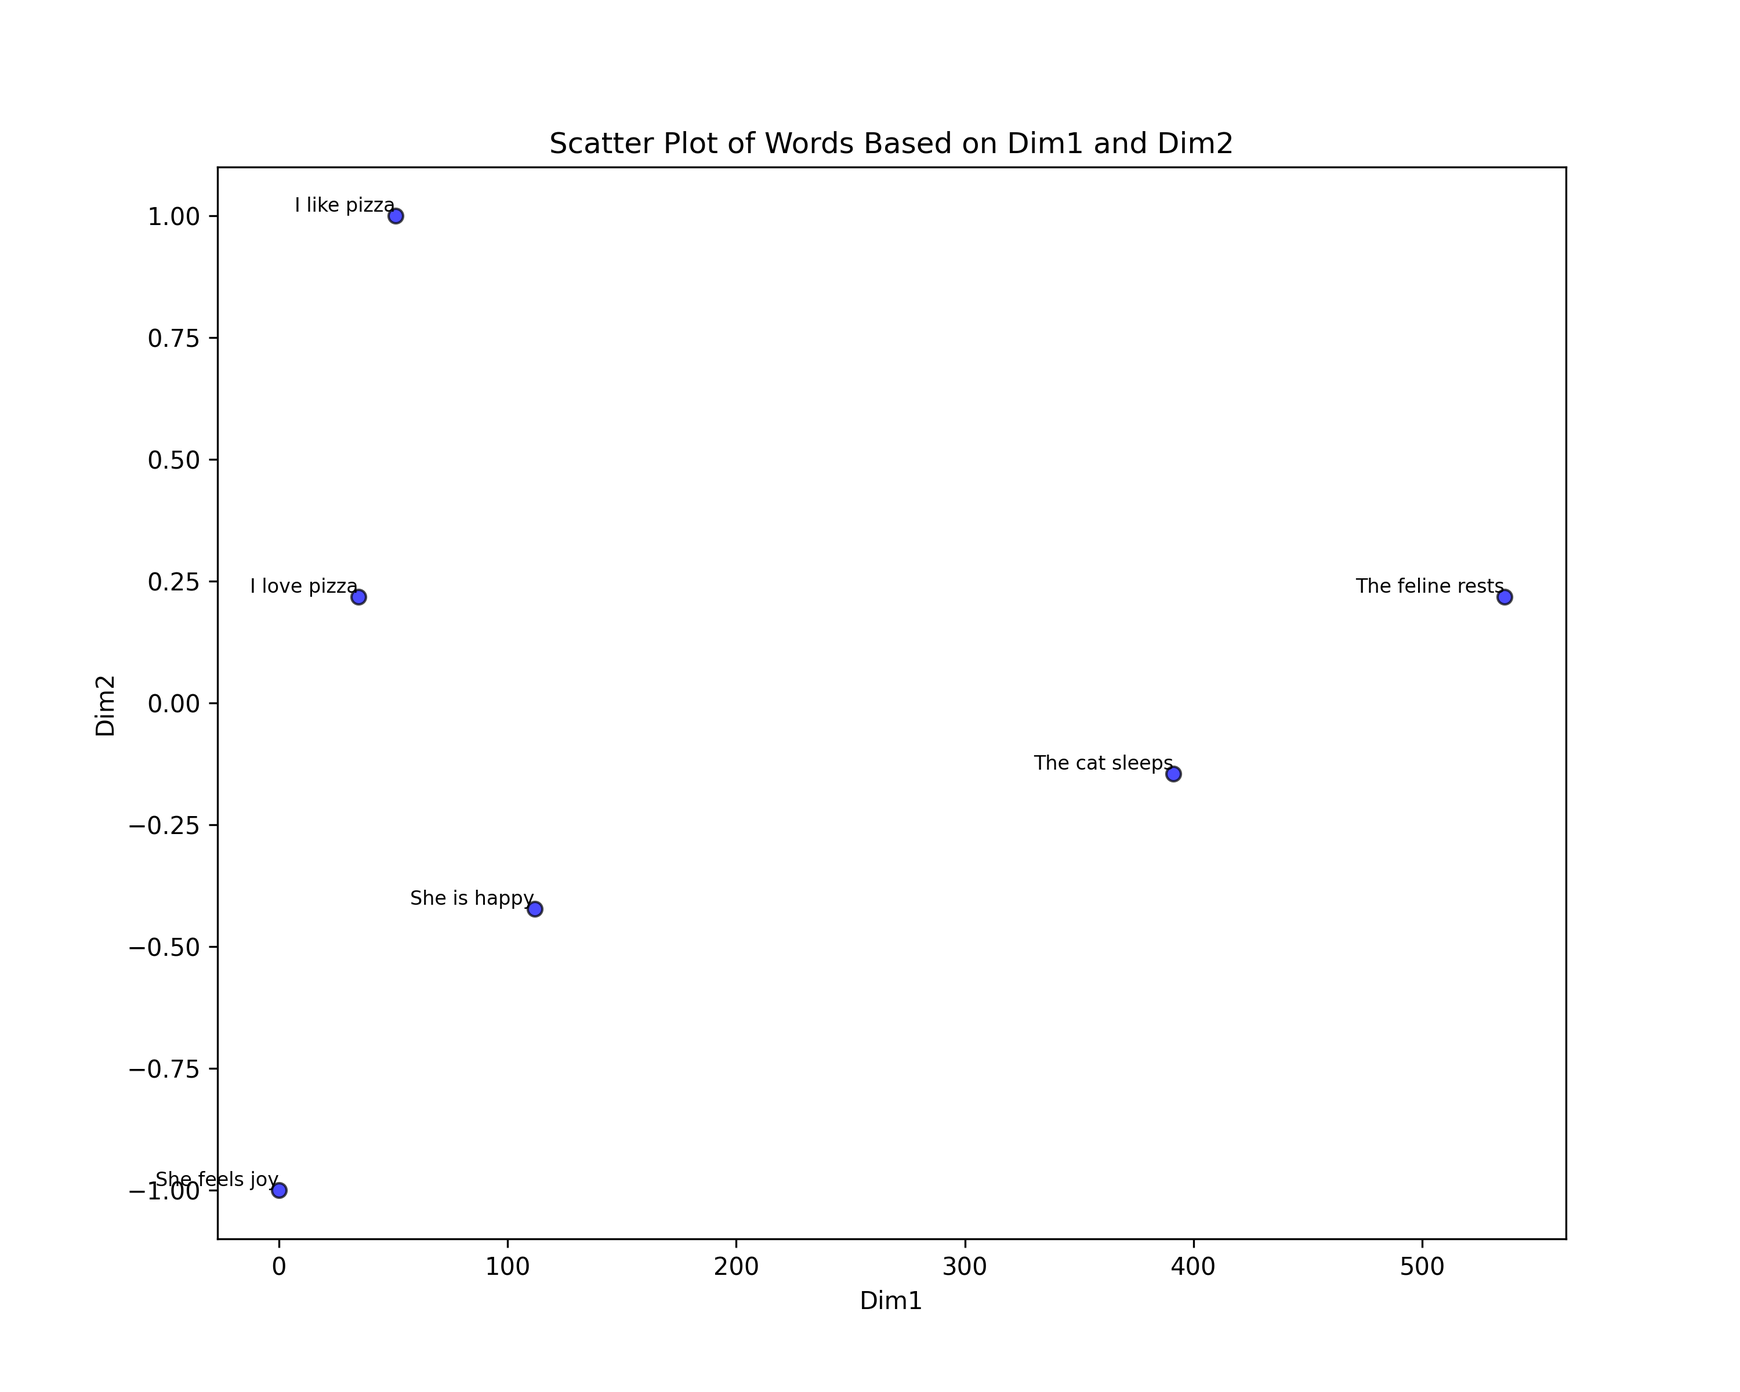
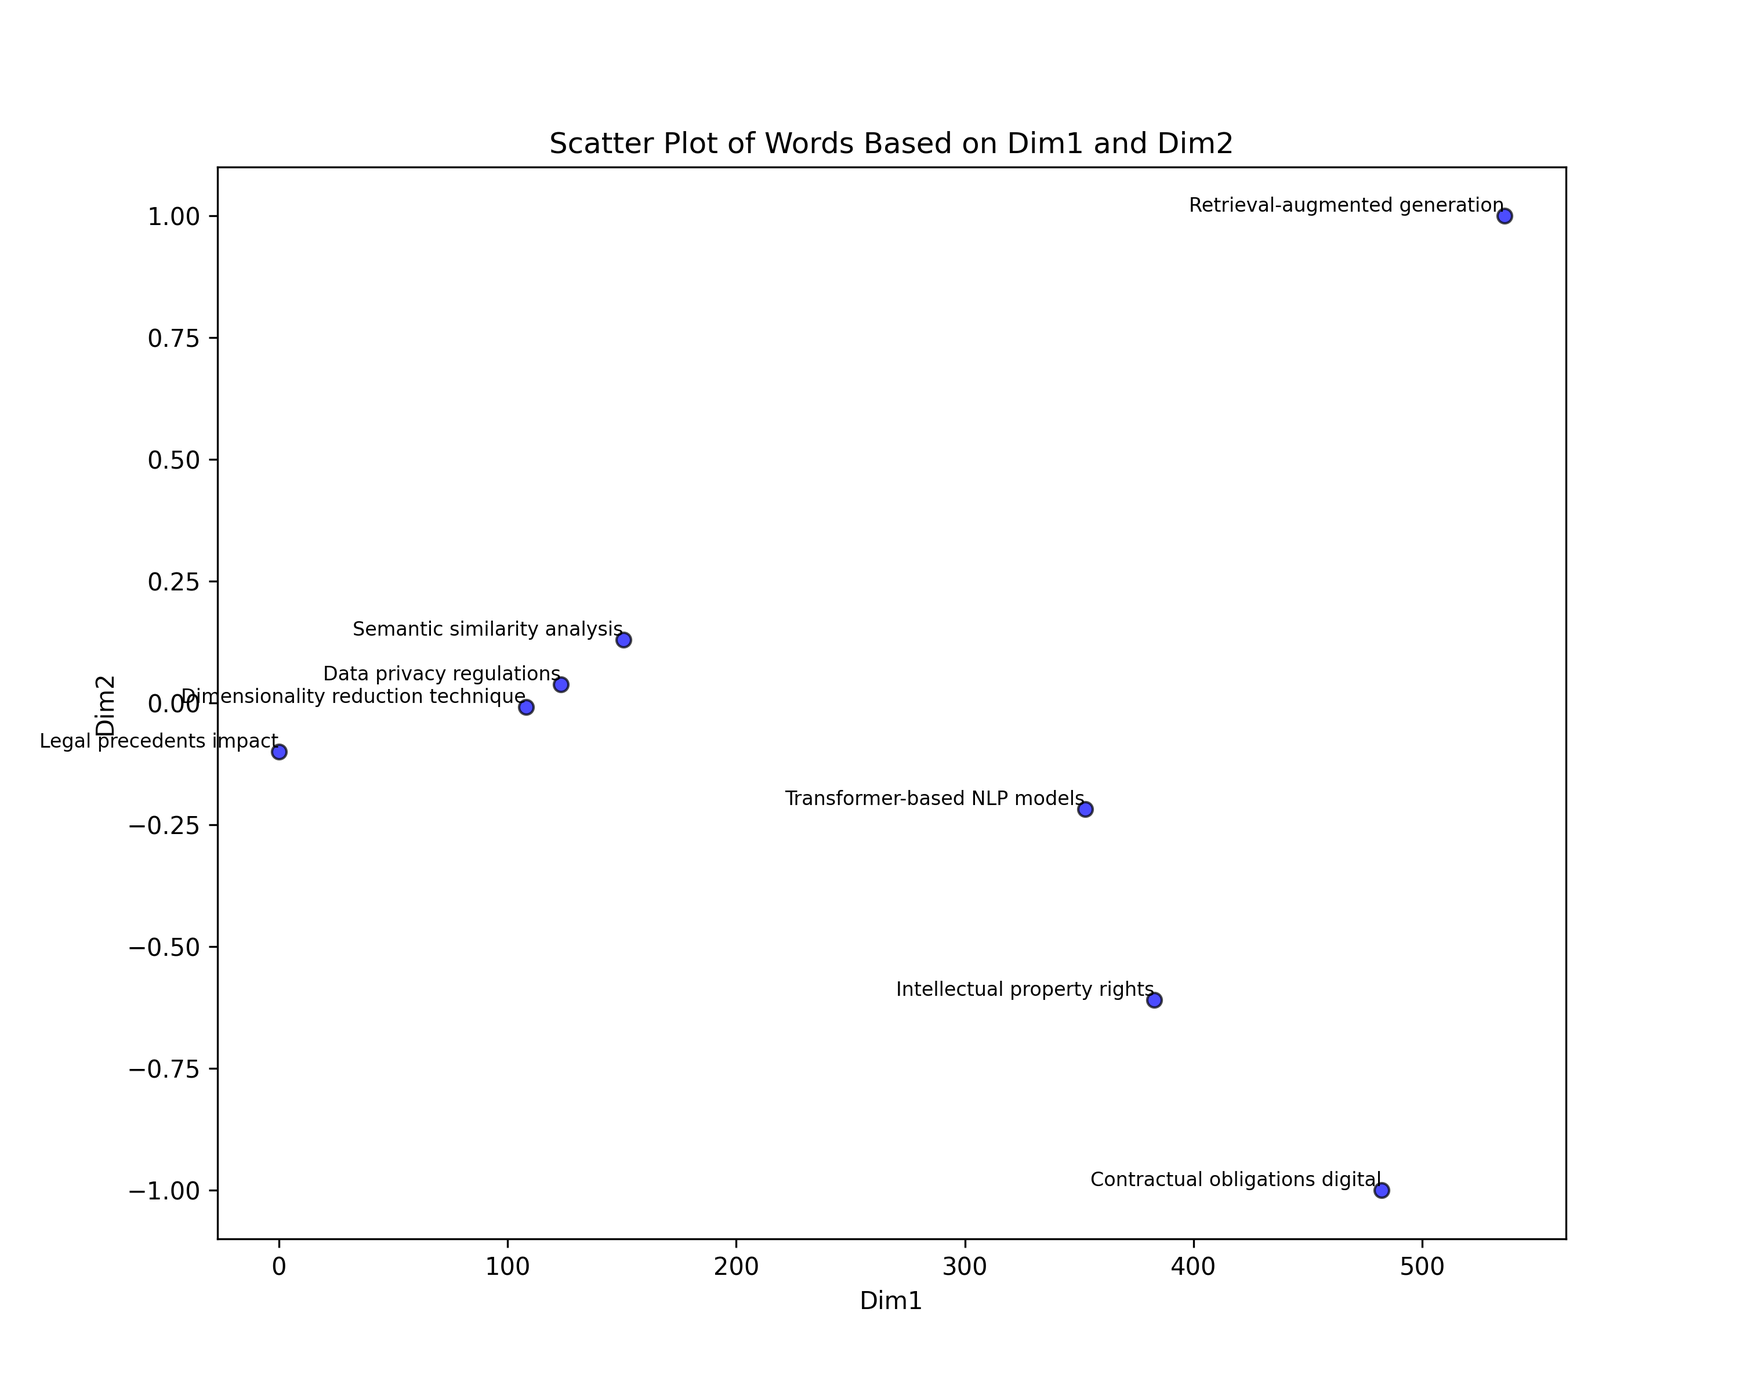
feat: include DimReductionPipelinesAndRAG.md

diff --git a/SemanticSimilarityAnalysis.Proj/Utils/ProcessorAli.cs b/SemanticSimilarityAnalysis.Proj/Utils/ProcessorAli.cs
@@ -22,21 +22,26 @@ public class ProcessorAli
         var pineconeSetupService = _serviceProvider.GetRequiredService<PineconeSetup>();
         var chatbotService = _serviceProvider.GetRequiredService<ChatbotService>();
         var ragPipeline = _serviceProvider.GetRequiredService<RagPipeline>();
+        var cosineSimService = _serviceProvider.GetRequiredService<CosineSimilarity>();
 
         LanguageDetector detector = new();
         detector.AddAllLanguages();
         try
         {
 
-            //--------------- Creating Embeddings and Storing in a new list. SEE DATA AT THE END OF THIS FILE ----------------------------
-            // var embeddings = await embeddingService.CreateEmbeddingsAsync(inputs);
-            // var listofEmbeddingVectors = new List<List<float>>();
-            //
-            // foreach (var vectorValues in embeddings)
-            // {
-            //     var vector = vectorValues.Values; // Get the vector for the current embedding
-            //     listofEmbeddingVectors.Add(vector);
-            // }
+            //--------------- Creating Embeddings for two strings, Storing vectors in a new list, and calculating the cosine similarity between those vectors. ----------------------------
+            //SEE DATA AT THE END OF THIS FILE
+            var embeddings = await embeddingService.CreateEmbeddingsAsync(inputs);
+            var listofEmbeddingVectors = new List<List<float>>();
+            
+            foreach (var vectorValues in embeddings)
+            {
+                var vector = vectorValues.Values; // Get the vector for the current embedding
+                listofEmbeddingVectors.Add(vector);
+            }
+
+            Console.WriteLine(cosineSimService.ComputeCosineSimilarity(listofEmbeddingVectors[0], listofEmbeddingVectors[1]));
+
 
 
             //--------------- Testing Manual Method for TopK Searching --------------------------------------
@@ -53,32 +58,32 @@ public class ProcessorAli
 
 
             //---------------Testing Dimensionality Reduction Pipelines ---------------------------------- 
-            // await openAiEmbeddingsDimReductionAndPlotting.RunPipelineAsync(inputs); 
-            // word2VecEmbeddingsDimReductionAndPlotting.RunPipeline(inputs);
+            await openAiEmbeddingsDimReductionAndPlotting.RunPipelineAsync(inputs); 
+            word2VecEmbeddingsDimReductionAndPlotting.RunPipeline(inputs);
 
 
             //---------------Testing pinecone refactored classes (setup+service) , Plus Multilingual testing------- 
             //After the initial setup, the immediate query's response is not generated. Comment the third line and run the application again.
             //Now the index will be available and query will be answered.
 
-            // string namespaceName = "profiles";
-            // string indexName = "dr-dobric-index";
+            // string namespaceName = "manuals-namespace";
+            // string indexName = "manuals-index";
             // await pineconeSetupService.RunAsync(inputs, indexName, namespaceName); //Uncomment if new index creation setup is required. CHANGE PARAMS ACCORDINGLY
-            // string query = "Who is dr dobric?";
-            // var pineconeTopKparagraphs = await pineconeService.QueryEmbeddingsAsync(query, indexName, namespaceName, 3, "en");
+            // string query = "List down steps to set up a new email account in mobile phone?";
+            // var pineconeTopKparagraphs = await pineconeService.QueryEmbeddingsAsync(query, indexName, namespaceName, 5);
             // var answer = await textGenerationService.GenerateTextAsync(query, pineconeTopKparagraphs);
             // Console.WriteLine($"\nAnswer: {answer}");
 
 
 
             // -----------------Testing the chatbot------------------
-            string namespaceName = "profiles";
-            string indexName = "dr-dobric-index";
-            await chatbotService.StartChatAsync(indexName, namespaceName);
+            // string namespaceName = "profiles";
+            // string indexName = "dr-dobric-index";
+            // await chatbotService.StartChatAsync(indexName, namespaceName);
 
 
 
-            // ---------------Testing RagPipeline------------
+            // ---------------Evaluating RagPipeline------------
             // string namespaceName = "profiles";
             // string indexName = "dr-dobric-index";
             // List<string> inputQueries = new()
@@ -139,7 +144,7 @@ public class ProcessorAli
         }
         catch (Exception ex)
         {
-            Console.WriteLine($"Error haha: {ex.Message}");
+            Console.WriteLine($"Errorr: {ex.Message}");
         }
 
     }
@@ -178,7 +183,7 @@ public class ProcessorAli
 
     // var inputs = new List<string>
     // {
-    //     // Manual 1: Setting up a new email account
+    //     // Manual 1: Creating up a new email account
     //     // First paragraph in German:
     //     "Um ein neues E-Mail-Konto auf Ihrem mobilen Gerät einzurichten, öffnen Sie zunächst die 'Einstellungen'-App auf Ihrem Telefon und wählen Sie 'Konten' oder 'Passwörter & Konten', je nach Ihrem Betriebssystem. Tippen Sie auf die Option 'Konto hinzufügen' oder 'Neues Konto hinzufügen'. Wählen Sie nun den E-Mail-Anbieter aus der Liste aus, wie z. B. Gmail, Outlook oder Yahoo. Wenn Ihr E-Mail-Anbieter nicht aufgeführt ist, wählen Sie 'Andere', um die Kontodaten manuell einzugeben. Geben Sie Ihre vollständige E-Mail-Adresse ein, z. B. 'benutzername@domain.com', gefolgt von Ihrem E-Mail-Passwort. Wenn erforderlich, geben Sie zusätzliche Einstellungen wie die Mail-Server-Adresse, IMAP/POP-Einstellungen und SMTP-Serverdetails ein. Nachdem die Daten eingegeben wurden, überprüft das System Ihre Anmeldedaten und verbindet sich mit Ihrem E-Mail-Konto.",
     //
@@ -209,16 +214,27 @@ public class ProcessorAli
     //     "To disconnect the wireless headphones, simply turn off Bluetooth on your smartphone or power off the headphones themselves. If you're planning to use the headphones with another device, repeat the pairing process by following the same steps. It’s important to store your headphones properly when not in use to prevent any physical damage. Most headphones come with a carrying case, which should be used for protection. For longer battery life, remember to turn off the headphones when you're done using them. If your headphones support software updates, make sure to regularly check for any available updates, as these can improve the performance and introduce new features to your device."
     // };
 
-    List<string> inputs = new List<string>
-    {
-        "Dr. Damir Dobric CEO, Lead Software Architect @ daenet | Microsoft AI MVP, Microsoft Regional Director Frankfurt Rhine-Main Metropolitan Area.",
-        "Summary: CEO and Lead Architect of DAENET GmbH – ACP Digital, Microsoft's long-term Gold Certified Partner and a leading technology integrator specialized in software technologies, with a strong focus on Cloud Computing, IoT, and Machine Learning. Damir Dobric is a highly skilled and experienced Lead Software Architect at DAENET, a company specializing in delivering innovative software solutions and consulting services. With a strong background in software development, Damir specializes in various areas such as cloud computing, IoT, and artificial intelligence.",
-        "In addition to his role at DAENET, Damir is also a Microsoft Most Valuable Professional (MVP). The Microsoft MVP Award is a prestigious recognition given to exceptional technical experts who are passionate about sharing their knowledge and experiences with others. As an MVP, Damir is part of an elite group of professionals known as Microsoft Regional Directors who actively contribute to the Microsoft community by offering guidance, support, and expertise in various Microsoft technologies. Damir's commitment to excellence in software development and his dedication to helping others have earned him a reputation as a thought leader in the industry. His contributions to the Microsoft community and his work as a Lead Software Architect at DAENET showcase his expertise and passion for technology. With a keen eye for innovation and a deep understanding of cutting-edge technologies,",
-        "Damir Dobric is a valuable asset to both DAENET, ACP and the broader Microsoft ecosystem. His work continues to inspire and support other professionals in their pursuit of technical excellence and innovation. He serves as an external professor for Software Engineering and Cloud Computing at the Frankfurt University of Applied Sciences.",
-        "Damir holds a PhD in Computational Intelligence from the University of Plymouth, UK. Experience daenet CEO, Lead Software Architect 1998 - Present (27 years) Frankfurt Am Main Area, Germany Microsoft Regional Director, Most Valuable Professional and Partner Technology Solution Professional for Microsoft Azure. Education University of Plymouth PhD Computational Intelligence, Artificial Intelligence",
-        "Contact www.linkedin.com/in/damirdobric (LinkedIn) https://damirdobric.me/ (Personal Website). Twitter: @ddobric",
-        "Top Skills Windows Azure .NET Cloud Applications.",
-        "Publications: 1) Artifficial Intelligence: Ready, Steady Gp Blog DEVELOPERS.DE, 2) Azure Best Practices: Running th code on a memory limit Load Balancers in Microsoft Azure cloud platform. 3) Why the cortical algorithm does need a baby phase?"
-    };
+    // List<string> inputs = new List<string>
+    // {
+    //     "Dr. Damir Dobric CEO, Lead Software Architect @ daenet | Microsoft AI MVP, Microsoft Regional Director Frankfurt Rhine-Main Metropolitan Area.",
+    //     "Summary: CEO and Lead Architect of DAENET GmbH – ACP Digital, Microsoft's long-term Gold Certified Partner and a leading technology integrator specialized in software technologies, with a strong focus on Cloud Computing, IoT, and Machine Learning. Damir Dobric is a highly skilled and experienced Lead Software Architect at DAENET, a company specializing in delivering innovative software solutions and consulting services. With a strong background in software development, Damir specializes in various areas such as cloud computing, IoT, and artificial intelligence.",
+    //     "In addition to his role at DAENET, Damir is also a Microsoft Most Valuable Professional (MVP). The Microsoft MVP Award is a prestigious recognition given to exceptional technical experts who are passionate about sharing their knowledge and experiences with others. As an MVP, Damir is part of an elite group of professionals known as Microsoft Regional Directors who actively contribute to the Microsoft community by offering guidance, support, and expertise in various Microsoft technologies. Damir's commitment to excellence in software development and his dedication to helping others have earned him a reputation as a thought leader in the industry. His contributions to the Microsoft community and his work as a Lead Software Architect at DAENET showcase his expertise and passion for technology. With a keen eye for innovation and a deep understanding of cutting-edge technologies,",
+    //     "Damir Dobric is a valuable asset to both DAENET, ACP and the broader Microsoft ecosystem. His work continues to inspire and support other professionals in their pursuit of technical excellence and innovation. He serves as an external professor for Software Engineering and Cloud Computing at the Frankfurt University of Applied Sciences.",
+    //     "Damir holds a PhD in Computational Intelligence from the University of Plymouth, UK. Experience daenet CEO, Lead Software Architect 1998 - Present (27 years) Frankfurt Am Main Area, Germany Microsoft Regional Director, Most Valuable Professional and Partner Technology Solution Professional for Microsoft Azure. Education University of Plymouth PhD Computational Intelligence, Artificial Intelligence",
+    //     "Contact www.linkedin.com/in/damirdobric (LinkedIn) https://damirdobric.me/ (Personal Website). Twitter: @ddobric",
+    //     "Top Skills Windows Azure .NET Cloud Applications.",
+    //     "Publications: 1) Artifficial Intelligence: Ready, Steady Gp Blog DEVELOPERS.DE, 2) Azure Best Practices: Running th code on a memory limit Load Balancers in Microsoft Azure cloud platform. 3) Why the cortical algorithm does need a baby phase?"
+    // };
+    // List<string> inputs = new List<string>
+    // {
+    //     "Semantic similarity analysis",
+    //     "Dimensionality reduction technique",
+    //     "Retrieval-augmented generation",
+    //     "Transformer-based NLP models",
+    //     "Legal precedents impact",
+    //     "Intellectual property rights",
+    //     "Data privacy regulations",
+    //     "Contractual obligations digital"
+    // };
 
 }

diff --git a/SemanticSimilarityAnalysis.Proj/Services/DimensionalityReductionService.cs b/SemanticSimilarityAnalysis.Proj/Services/DimensionalityReductionService.cs
@@ -41,7 +41,7 @@ namespace SemanticSimilarityAnalysis.Proj.Services
             // Create the t-SNE object and set the parameters
             var tsne = new TSNE()
             {
-                Perplexity = 30, // You can adjust the perplexity
+                Perplexity = 0.65, // You can adjust the perplexity
                 Theta = 0.5, // You can adjust the theta
                 NumberOfOutputs = targetDimensions // Set the target dimensionality (default is 2)
             };
@@ -60,8 +60,7 @@ namespace SemanticSimilarityAnalysis.Proj.Services
             }
             catch (Exception ex)
             {
-                throw new InvalidOperationException("Error during t-SNE transformation", ex);
-            }
+                throw new Exception($"An unexpected error occurred during t-SNE transformation: {ex.Message}", ex);            }
             return ConvertJaggedArrayToMatrix(reducedData);
         }
 

diff --git a/Documentation/DimReductionPipelinesAndRAG.md b/Documentation/DimReductionPipelinesAndRAG.md
@@ -1,0 +1,127 @@
+# ProcessorAli Documentation
+
+## Overview
+`ProcessorAli` is a C# class that utilizes various services to perform semantic similarity analysis, embedding generation, dimensionality reduction, chatbot interactions, and retrieval-augmented generation (RAG) evaluations.
+
+## Prerequisites
+Ensure you have the following dependencies installed in your C# project:
+
+- `LanguageDetection`
+- `Microsoft.Extensions.DependencyInjection`
+
+## Usage
+### Running `ProcessorAli`
+1. Initialize the required services using dependency injection.
+2. Call the `RunAsync()` method to execute various tasks.
+
+Example:
+```csharp
+ProcessorAli processor = new(serviceProvider);
+await processor.RunAsync();
+```
+## Notes
+While testing, uncomment only the relevant code block under each feature and keep all other code blocks commented. This ensures that each functionality is tested in isolation without conflicts.
+## Features
+### 1. Creating Embeddings & Computing Cosine Similarity
+- Generates embeddings using `OpenAiEmbeddingService`.
+- Computes cosine similarity between generated embeddings.
+
+```csharp
+var embeddingService = _serviceProvider.GetRequiredService<OpenAiEmbeddingService>();
+var cosineSimService = _serviceProvider.GetRequiredService<CosineSimilarity>();
+
+var embeddings = await embeddingService.CreateEmbeddingsAsync(inputs);
+var listofEmbeddingVectors = embeddings.Select(e => e.Values).ToList();
+
+Console.WriteLine(cosineSimService.ComputeCosineSimilarity(listofEmbeddingVectors[0], listofEmbeddingVectors[1]));
+```
+
+### 2. Dimensionality Reduction Pipelines
+- Runs OpenAI and Word2Vec embedding dimensionality reduction and visualization.
+
+```csharp
+var openAiEmbeddingsDimReductionAndPlotting = _serviceProvider.GetRequiredService<OpenAiEmbeddingsDimReductionAndPlotting>();
+var word2VecEmbeddingsDimReductionAndPlotting = _serviceProvider.GetRequiredService<Word2VecEmbeddingsDimReductionAndPlotting>();
+
+await openAiEmbeddingsDimReductionAndPlotting.RunPipelineAsync(inputs);
+word2VecEmbeddingsDimReductionAndPlotting.RunPipeline(inputs);
+```
+
+### 3. Pinecone Vector Database Setup & Querying
+#### Setting Up Pinecone
+**Note:** The `namespace` name and `index` name should be all small letters and separated by a hyphen
+```csharp
+var pineconeSetupService = _serviceProvider.GetRequiredService<PineconeSetup>();
+string namespaceName = "your-namespace-name";  
+string indexName = "your-index-name"; 
+await pineconeSetupService.RunAsync(inputs, indexName, namespaceName);
+```
+
+#### Querying Pinecone
+**Note** 'QueryEmbeddingsAsync' has following args
+- The `query` parameter specifies the search input.
+- `indexName` refers to the Pinecone index being queried.
+- `namespaceName` helps organize data within the index.
+- `3` determines the number of top matching results to return.
+- `"en"` specifies the language filter for embeddings that will be extracted from pinecone. Its default value is "en"
+- While testing, uncomment this block and ensure other query-related blocks remain commented.
+```csharp
+var pineconeService = _serviceProvider.GetRequiredService<PineconeService>();
+string query = "Who is Dr. Dobric?";
+var pineconeTopKparagraphs = await pineconeService.QueryEmbeddingsAsync(query, indexName, namespaceName, 3, "en");
+```
+
+### 4. Chatbot Service
+```csharp
+var chatbotService = _serviceProvider.GetRequiredService<ChatbotService>();
+await chatbotService.StartChatAsync(indexName, namespaceName);
+```
+
+### 5. RAG Pipeline Evaluation
+- Retrieves relevant documents and evaluates accuracy using cosine similarity and ROUGE scores.
+ **Notes**
+- This code allows batch querying in Pinecone.
+- A list of queries is passed as input.
+- The response contains answers for all queries from the specified index and namespace in Pinecone.
+- While testing, uncomment this block and ensure other Pinecone-related blocks remain commented.
+```csharp
+var ragPipeline = _serviceProvider.GetRequiredService<RagPipeline>();
+List<string> inputQueries = new() { "your-first-query", "your-second-query", "your-third-query" };
+List<string> generatedResponses = await ragPipeline.BatchRetrieveAndGenerateResponsesAsync(inputQueries, indexName, namespaceName, 3);
+
+foreach (var response in generatedResponses)
+{
+    Console.WriteLine($"Generated Answer: {response}");
+}
+```
+
+### 6. Word2Vec Similarity Testing
+**Note**
+- Download the dataset from https://www.kaggle.com/datasets/pkugoodspeed/nlpword2vecembeddingspretrained?resource=download&select=glove.6B.300d.txt and place inside Datasets directory with name `glove.6B.300d.txt`
+```csharp
+string filePath = Path.Combine("Datasets", "glove.6B.300d.txt");
+var word2VecService = new Word2VecService(filePath);
+
+var vector1 = word2VecService.GetPhraseVector("machine learning revolution");
+var vector2 = word2VecService.GetPhraseVector("law and legal regulations");
+
+var cosineSimilarity = new CosineSimilarity();
+var similarityValue = cosineSimilarity.ComputeCosineSimilarity(vector1.ToList(), vector2.ToList());
+Console.WriteLine($"Cosine Similarity using Word2Vec: {similarityValue}");
+```
+
+## Error Handling
+Any exceptions encountered during execution are caught and logged to the console.
+
+```csharp
+catch (Exception ex)
+{
+    Console.WriteLine($"Error: {ex.Message}");
+}
+```
+
+## Contributing
+To contribute, fork the repository, create a new branch, and submit a pull request.
+
+## License
+This project is licensed under [MIT License](LICENSE).
